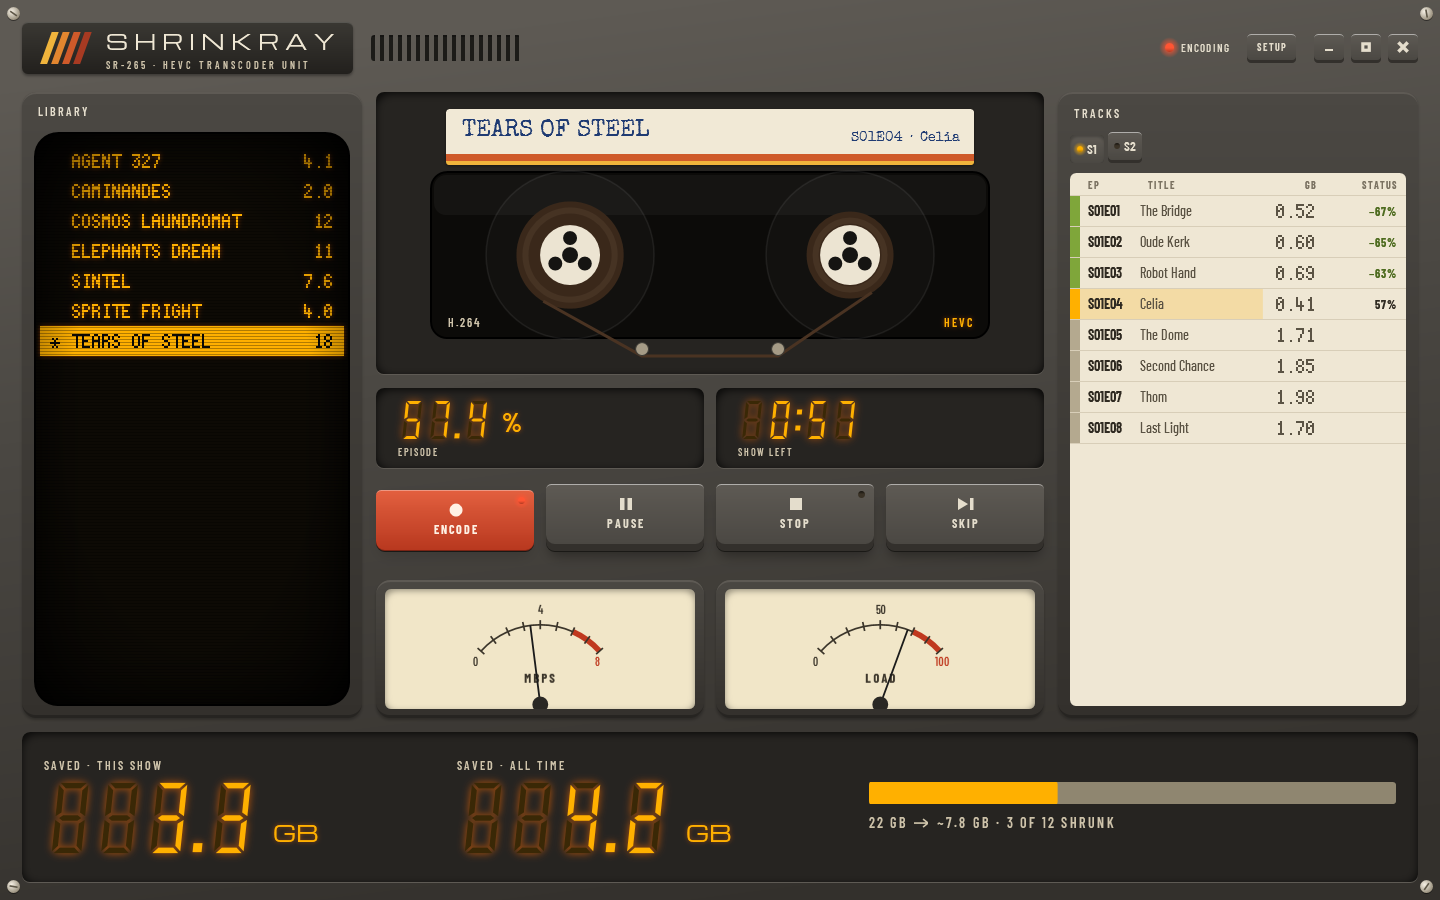
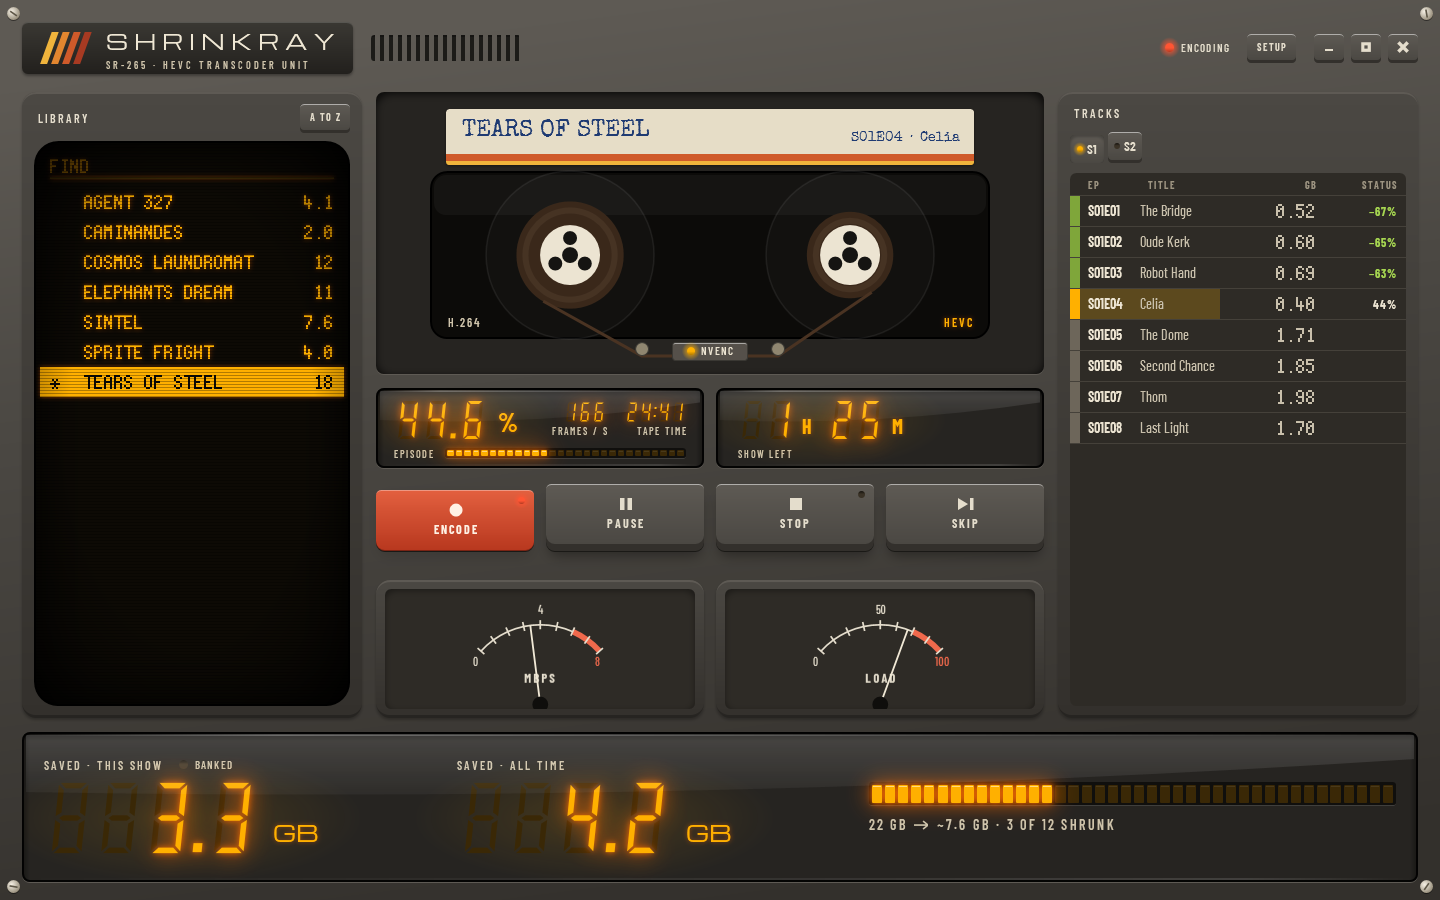
ShrinkRay: update the project page for the post-v0.1.0 features (#74)
* ShrinkRay: bring the project page's copy up to the latest features

The hero mentions the show queue and runs that stop themselves, and its episode
percent counts every step. The swap gate gains the Unchanged check, and the system
diagram covers the queue, learned estimates, lossless audio, setup and the one-copy
rule. The J-card prints on charcoal on Graphite, like the deck. The prose is
rewritten to read less like generated text.

* ShrinkRay: re-render the project page's app captures

The deck and kit captures predated the charcoal Graphite paper, the newer readouts
and the library search.

diff --git a/docs/index.html b/docs/index.html
@@ -4,9 +4,9 @@
   <meta charset="utf-8">
   <meta name="viewport" content="width=device-width, initial-scale=1">
   <title>ShrinkRay: batch H.264 to H.265 video compressor</title>
-  <meta name="description" content="ShrinkRay batch-compresses video from H.264 to H.265 with HandBrakeCLI and NVIDIA NVENC. It verifies every file and swaps it in under its original name through a crash-safe journal.">
+  <meta name="description" content="ShrinkRay converts a video library from H.264 to H.265 on an NVIDIA GPU and swaps each checked file in under its original name.">
   <meta property="og:title" content="ShrinkRay">
-  <meta property="og:description" content="Batch video compression that checks its work. A TV library of 878 GB came back as 308 GB.">
+  <meta property="og:description" content="ShrinkRay took an 878 GB TV library down to 308 GB.">
   <meta property="og:type" content="website">
   <meta property="og:image" content="https://jacobpoteet.github.io/ShrinkRay/img/app/deck-encoding-amber-beige.webp">
   <meta name="color-scheme" content="light dark">
@@ -39,6 +39,7 @@
 
       --plate: #262421; --crt: #0D0A05; --silk-light: #CFC4AB;
       --cream: #EFE7D4; --jcard-rule: #D8CEB8; --paper-ink: #3B352A; --paper-ink-soft: #5B5344; --marker: #1F3B73;
+      --card: #EFE7D4; --card-rule: #D8CEB8; --card-ink: #2F2A21; --card-ink-soft: #5B5344; --card-marker: #1F3B73;
       --red-top: #E3603F; --red-bot: #B8381F; --red-side: #7A2414; --red-ink: #FFF1E4;
       --lamp-green: #A6D651; --lamp-off: #3A3226;
       --stripe1: #F0B43C; --stripe2: #E2862F; --stripe3: #CF5A2A; --stripe4: #A73A22;
@@ -61,6 +62,7 @@
         --ink: #E4DDCC; --ink-soft: #D8D2C4; --marker-ink: #A9BFF0;
         --groove-dark: rgba(0, 0, 0, .38); --groove-light: rgba(255, 255, 255, .07);
         --key-top: #67635C; --key-bot: #55514B; --key-side: #2E2B28; --key-ink: #E4DDCC;
+        --card: #2E2B26; --card-rule: #45413A; --card-ink: #ECE4D2; --card-ink-soft: #C9C0AC; --card-marker: #A9BFF0;
         color-scheme: dark;
       }
     }
@@ -69,6 +71,7 @@
       --ink: #E4DDCC; --ink-soft: #D8D2C4; --marker-ink: #A9BFF0;
       --groove-dark: rgba(0, 0, 0, .38); --groove-light: rgba(255, 255, 255, .07);
       --key-top: #67635C; --key-bot: #55514B; --key-side: #2E2B28; --key-ink: #E4DDCC;
+      --card: #2E2B26; --card-rule: #45413A; --card-ink: #ECE4D2; --card-ink-soft: #C9C0AC; --card-marker: #A9BFF0;
       color-scheme: dark;
     }
     :root[data-phosphor="green"] { --ph: #4DFF8F; --ph-dim: #0C3A1F; --ph-glow: rgba(77, 255, 143, .5); --ph-tint: rgba(77, 255, 143, .26); }
@@ -378,18 +381,18 @@
     .readouts { display: flex; flex-wrap: wrap; gap: 8px 28px; padding: 14px 16px; margin-top: 14px; }
     .readouts div { display: flex; flex-direction: column; gap: 6px; }
     .readouts .silk { color: var(--ph); opacity: .75; }
-    .jcard { background: var(--cream); color: var(--paper-ink); border-radius: 6px; padding: 6px 0 2px; margin-top: 18px; overflow-x: auto; box-shadow: 0 2px 0 rgba(0,0,0,.1), 0 8px 18px rgba(0,0,0,.12); }
+    .jcard { background: var(--card); color: var(--card-ink); border-radius: 6px; padding: 6px 0 2px; margin-top: 18px; overflow-x: auto; box-shadow: 0 2px 0 rgba(0,0,0,.1), 0 8px 18px rgba(0,0,0,.12); }
     .jcard table { border-collapse: collapse; width: 100%; min-width: 600px; }
-    .jcard th, .jcard td { padding: 10px 14px; text-align: right; border-bottom: 1px solid var(--jcard-rule); vertical-align: top; }
+    .jcard th, .jcard td { padding: 10px 14px; text-align: right; border-bottom: 1px solid var(--card-rule); vertical-align: top; }
     .jcard th:first-child, .jcard td:first-child { text-align: left; }
-    .jcard thead th { font: 600 .72rem/1.2 var(--silk); letter-spacing: .16em; text-transform: uppercase; color: var(--paper-ink-soft); }
+    .jcard thead th { font: 600 .72rem/1.2 var(--silk); letter-spacing: .16em; text-transform: uppercase; color: var(--card-ink-soft); }
     .jcard tbody tr:last-child td, .jcard tbody tr:last-child th { border-bottom: 0; }
-    .jcard .clip { font: 400 1.1rem/1.2 var(--typed); color: var(--marker); }
-    .jcard .clip small { display: block; font: 600 .66rem/1.4 var(--silk); letter-spacing: .14em; text-transform: uppercase; color: var(--paper-ink-soft); }
+    .jcard .clip { font: 400 1.1rem/1.2 var(--typed); color: var(--card-marker); }
+    .jcard .clip small { display: block; font: 600 .66rem/1.4 var(--silk); letter-spacing: .14em; text-transform: uppercase; color: var(--card-ink-soft); }
     .jcard .pct { font: 700 22px/22px var(--pixel); -webkit-font-smoothing: none; }
-    .jcard .sub { display: block; font-size: .95rem; color: var(--paper-ink-soft); margin-top: 4px; white-space: nowrap; }
+    .jcard .sub { display: block; font-size: .95rem; color: var(--card-ink-soft); margin-top: 4px; white-space: nowrap; }
     .jcard .pick { background: var(--ph-tint); }
-    .jcard thead .pick { color: var(--paper-ink); }
+    .jcard thead .pick { color: var(--card-ink); }
 
     /* ---- Design ---- */
     .themes { display: grid; grid-template-columns: repeat(3, minmax(0, 1fr)); gap: 14px; }
@@ -443,7 +446,7 @@
           <p class="eyebrow silk">Batch video compressor · H.264 to H.265</p>
           <h1>Shrink a whole library overnight.</h1>
         </div>
-        <p class="lead">ShrinkRay re-encodes video with HandBrakeCLI and NVIDIA NVENC, checks every result, and swaps it in under the original filename, so a media server keeps its metadata and watch history. TV libraries gain the most: hundreds of gigabytes come back.</p>
+        <p class="lead">ShrinkRay re-encodes your video on an NVIDIA GPU and renames each checked file over the original, so your media server keeps its metadata and watch history. Queue a few shows before bed. If something keeps failing, ShrinkRay stops and tells you why.</p>
       </div>
 
       <div class="stage" id="stage">
@@ -542,7 +545,7 @@
     <section class="module" id="system" aria-labelledby="sys-h">
       <div class="wrap">
         <h2 class="heading" id="sys-h">System design</h2>
-        <p class="lead">Core is pure logic. Every process call and file operation sits behind an interface, so tests run on fakes. Select a part.</p>
+        <p class="lead">The engine in ShrinkRay.Core starts processes and touches files only through interfaces, and the tests swap in fakes. Click a box to read about it.</p>
         <div class="arch" id="arch">
           <div class="tier apps">
             <button class="node" type="button" data-n="theme" aria-pressed="false">ShrinkRay.Theme<small>control kit</small></button>
@@ -585,14 +588,15 @@
     <section class="module" id="swap" aria-labelledby="swap-h">
       <div class="wrap">
         <h2 class="heading" id="swap-h">Crash-safe swap</h2>
-        <p class="lead">The journal writes each state to disk before the step runs. On startup, recovery reads the disk and settles whatever is left. Slide the crash.</p>
+        <p class="lead">ShrinkRay writes each step to a journal on disk before it runs the step. After a crash, it reads the journal and the files at startup and finishes or undoes the swap. Press a check to fail it, or drag the slider to pick when the power goes out.</p>
 
-        <div class="gate" role="group" aria-label="The five checks before the swap. Press one to make it fail.">
+        <div class="gate" role="group" aria-label="The six checks before the swap. Press one to make it fail.">
           <button class="check" type="button" data-c="Duration" aria-pressed="false"><span class="lamp ok" aria-hidden="true"></span><span>Duration<small>PASS</small></span></button>
           <button class="check" type="button" data-c="Streams" aria-pressed="false"><span class="lamp ok" aria-hidden="true"></span><span>Streams<small>PASS</small></span></button>
           <button class="check" type="button" data-c="Full decode" aria-pressed="false"><span class="lamp ok" aria-hidden="true"></span><span>Full decode<small>PASS</small></span></button>
           <button class="check" type="button" data-c="Captions" aria-pressed="false"><span class="lamp ok" aria-hidden="true"></span><span>Captions<small>PASS</small></span></button>
           <button class="check" type="button" data-c="Min. savings" aria-pressed="false"><span class="lamp ok" aria-hidden="true"></span><span>Min. savings<small>PASS</small></span></button>
+          <button class="check" type="button" data-c="Unchanged" aria-pressed="false"><span class="lamp ok" aria-hidden="true"></span><span>Unchanged<small>PASS</small></span></button>
           <span class="gate-status silk" aria-live="polite"><span class="lamp ok" id="gate-lamp" aria-hidden="true"></span><span id="gate-word">All pass: swap may start</span></span>
         </div>
 
@@ -620,7 +624,7 @@
             </div>
           </div>
         </div>
-        <p class="fine">CrashRecoveryTests kills the swap after every durable operation, and again during recovery.</p>
+        <p class="fine">Unchanged means the original still has the size and write time it had when the encode started. If you edit or replace the file mid-run, ShrinkRay leaves it alone. CrashRecoveryTests kills the swap after each file operation, and again partway through recovery.</p>
       </div>
     </section>
 
@@ -629,7 +633,7 @@
     <section class="module" id="quality" aria-labelledby="q-h">
       <div class="wrap">
         <h2 class="heading" id="q-h">Quality</h2>
-        <p class="lead">Four 3-minute clips from commercial TV, each encoded at CQ 22, 25 and 28 and scored with VMAF. Drag the line to compare.</p>
+        <p class="lead">I encoded four 3-minute TV clips at CQ 22, 25 and 28 and scored each with VMAF. Drag the line to compare source and encode.</p>
         <div class="tapes" id="tapes" role="radiogroup" aria-label="Test clip"></div>
 
         <div class="plate monitor">
@@ -656,7 +660,7 @@
         <noscript><p class="fine">The comparison needs JavaScript.</p></noscript>
 
         <div class="jcard"><table id="results"><caption class="sr-only">File size saved and VMAF for each clip at each CQ. CQ 28 is the default.</caption><thead></thead><tbody></tbody></table></div>
-        <p class="fine">CQ 28 is the default: every clip shrank 60 to 70% with a mean VMAF above 95. Raise it per show on the deck.</p>
+        <p class="fine">CQ 28 is the default. At 28 the clips shrank 60 to 70% and kept a mean VMAF above 95. You can change it per show on the deck.</p>
       </div>
     </section>
 
@@ -665,13 +669,13 @@
     <section class="module" id="design" aria-labelledby="des-h">
       <div class="wrap">
         <h2 class="heading" id="des-h">Design</h2>
-        <p class="lead">Cassette futurism, built as a working machine from one control kit. Pick a theme and the page follows.</p>
+        <p class="lead">The look is cassette futurism: a tape deck with CRT readouts, built from one WPF control kit. Picking a theme here switches this page too.</p>
         <div class="themes" id="themes"></div>
         <figure class="plate shot-frame">
           <img data-shot="kit" src="img/app/kit-amber-beige.webp" width="1802" height="1180" loading="lazy"
                alt="The component gallery: panels for materials, house rules, type, controls, lamps and readouts, surface detail, instruments, reels as data, and a live deck.">
         </figure>
-        <p class="caption">The kit in ShrinkRay.Gallery, one window with every control.</p>
+        <p class="caption">ShrinkRay.Gallery shows every control in the kit in one window.</p>
       </div>
     </section>
 
@@ -803,7 +807,7 @@ powershell -ExecutionPolicy Bypass -File tools/install-local.ps1</pre>
     var LINES = [
       ['> PROBE  H.264 1080P', '  1.8 GB · 43 MIN'],
       ['> ENCODE  HEVC 10-BIT', '  CQ 28 · 166 FPS'],
-      ['> VERIFY  5 CHECKS', '  FULL DECODE'],
+      ['> VERIFY  6 CHECKS', '  FULL DECODE'],
       ['> SWAP  RENAME OVER', '  ORIGINAL, SAME NAME'],
       ['> DONE  -67%', '  1.8 GB TO 0.6 GB']
     ];
@@ -849,6 +853,8 @@ powershell -ExecutionPolicy Bypass -File tools/install-local.ps1</pre>
       var phase = t < T.probe ? 0 : t < T.encode ? 1 : t < T.verify ? 2 : t < T.swap ? 3 : 4;
       var p = t < T.probe ? 0 : t < T.encode ? ease((t - T.probe) / (T.encode - T.probe)) : 1;
       var size = 1.8 - 1.2 * p;
+      // Like the deck, the episode percent counts every step, not the encode alone.
+      var whole = Math.min(1, t / T.swap);
       phaseEls.forEach(function (li, i) {
         li.className = i < phase ? 'done' : i === phase ? 'now' : '';
       });
@@ -856,8 +862,8 @@ powershell -ExecutionPolicy Bypass -File tools/install-local.ps1</pre>
       $('state-lamp').className = 'lamp' + (running ? ' on' : ' ok');
       $('state-word').textContent = STATE_WORDS[phase];
       drawSeg($('seg-size'), size.toFixed(1));
-      drawSeg($('seg-pct'), String(Math.round(p * 100)));
-      $('pbar').style.width = (p * 100) + '%';
+      drawSeg($('seg-pct'), String(Math.round(whole * 100)));
+      $('pbar').style.width = (whole * 100) + '%';
       $('line1').textContent = LINES[phase][0];
       $('line2').textContent = LINES[phase][1];
       // Reels: the source reel unwinds as the output reel fills.
@@ -899,23 +905,23 @@ powershell -ExecutionPolicy Bypass -File tools/install-local.ps1</pre>
 
     // ---- System design diagram ----
     var NODES = {
-      app: ['ShrinkRay.App', 'The WPF deck. MainViewModel holds the state and reaches the engine only through DeckServices.'],
-      theme: ['ShrinkRay.Theme', 'The control kit: reels, keys, meters, lamps. Geometry lives in plain classes with unit tests.'],
-      services: ['DeckServices', 'The one seam between deck and engine. Tests hand it an in-memory library and a scripted runner.'],
-      core: ['ShrinkRay.Core', 'The engine. Logic stays pure, and every process call and file operation sits behind an interface.'],
-      media: ['Core / Media', 'Parses ffprobe output and applies the eligibility rules: is it H.264, and is it worth encoding.'],
-      encode: ['Core / Encode', 'Plans the HandBrakeCLI arguments and audio, and parses its progress.'],
-      verify: ['Core / Verification', 'Decides one of three outcomes for a new file: pass, keep the original, or fail with reasons.'],
-      swap: ['Core / Swap', 'The journal state machine, the executor and startup recovery. Crash tests cover each step.'],
-      pipeline: ['Core / Pipeline', 'Runs one episode from probe to swap, and a queue that runs a show’s episodes one at a time.'],
-      library: ['Core / Library', 'Scans a show, caches probes, estimates savings and keeps the ledger of space freed.'],
+      app: ['ShrinkRay.App', 'The WPF deck. MainViewModel holds its state and talks to the engine through DeckServices. One copy runs per data folder, and the first launch checks that your tools are installed.'],
+      theme: ['ShrinkRay.Theme', 'Reels, keys, meters and lamps. Their geometry sits in plain C# classes, so unit tests cover it without a window.'],
+      services: ['DeckServices', 'The deck reaches the engine through this class alone. App tests give it an in-memory library and a scripted runner.'],
+      core: ['ShrinkRay.Core', 'The engine. It calls processes and the file system through interfaces, so its tests run without either.'],
+      media: ['Core / Media', 'Parses ffprobe output and decides whether a file is H.264 and worth encoding.'],
+      encode: ['Core / Encode', 'Builds the HandBrakeCLI command and audio plan, and reads HandBrake’s progress. A setting keeps lossless audio tracks as they are.'],
+      verify: ['Core / Verification', 'Gives each new file one of three results: pass, keep the original, or fail with reasons.'],
+      swap: ['Core / Swap', 'Holds the journal, the swap itself and startup recovery. A crash test covers each step.'],
+      pipeline: ['Core / Pipeline', 'Runs each episode from probe to swap, then moves to the next queued show. Three failures in a row or a full scratch disk end the run.'],
+      library: ['Core / Library', 'Scans and searches shows, caches probes and keeps a ledger of space saved. It estimates sizes from the episodes it has already shrunk in that show.'],
       runner: ['IProcessRunner', 'Every external process starts here. Tests swap in a fake that never launches a tool.'],
       iprobe: ['IMediaProbe', 'Reads streams, duration and captions. Tests feed it synthetic ffprobe JSON.'],
       ifs: ['IFileSystem', 'Every copy, rename and delete in the swap goes through it, so crash tests can stop after each one.'],
-      hb: ['HandBrakeCLI + NVENC', 'Does the encode, H.264 to H.265 on the GPU, in a local scratch folder.'],
+      hb: ['HandBrakeCLI + NVENC', 'Runs the encode on the GPU, in a local scratch folder.'],
       ffprobe: ['ffprobe', 'Scans each file and re-reads the output for the checks.'],
       ffmpeg: ['ffmpeg', 'Runs the full-decode check and copies MKV font attachments back when an encode drops them.'],
-      disk: ['File system', 'The library is touched only by the final rename. Scratch is local.']
+      disk: ['File system', 'ShrinkRay writes to the library only to copy in the finished file and rename it. Encodes run in a local scratch folder.']
     };
     var arch = $('arch');
     function pick(id) {
@@ -933,7 +939,7 @@ powershell -ExecutionPolicy Bypass -File tools/install-local.ps1</pre>
     // ---- Swap scrubber ----
     var POS = [
       { at: 'Before the copy', jl: 'Verified', files: [['ep.mkv', 'H.264', 'old']],
-        rec: 'The share never changed. The episode goes back in the queue.', out: 'Original kept', ok: true },
+        rec: 'Nothing on the share changed. The episode goes back in the queue.', out: 'Original kept', ok: true },
       { at: 'During the copy to temp', jl: 'UploadedTemp', files: [['ep.mkv', 'H.264', 'old'], ['ep.mkv.shrinkray.tmp', 'HEVC', 'new']],
         rec: 'Deletes the temp file. The original never moved.', out: 'Original kept', ok: true },
       { at: 'After the original went aside', jl: 'OriginalRenamedAside', files: [['ep.mkv.shrinkray.bak', 'H.264', 'old'], ['ep.mkv.shrinkray.tmp', 'HEVC', 'new']],
@@ -949,7 +955,7 @@ powershell -ExecutionPolicy Bypass -File tools/install-local.ps1</pre>
       var nFail = Object.keys(failed).length;
       var hold = nFail > 0;
       var d = hold ? { at: 'No swap starts', jl: 'Failed', files: [['ep.mkv', 'H.264', 'old']],
-        rec: 'A failed check keeps the original and leaves the share untouched.', out: 'Original kept', ok: true } : POS[+crash.value];
+        rec: failed.Unchanged ? 'The original changed during the run, so ShrinkRay leaves it in place.' : 'The original stays and nothing on the share changes.', out: 'Original kept', ok: true } : POS[+crash.value];
       crash.disabled = hold;
       $('crash-at').textContent = 'On disk · ' + d.at;
       $('jlast').textContent = d.jl;
